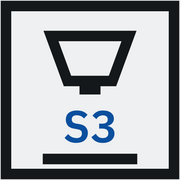
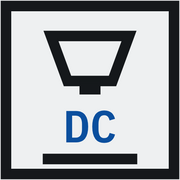
Renomme le service en DigitalCore
Stratis 3D est abandonné : la recherche a révélé Stratus3D et Strati-3D,
deux sociétés françaises d'impression 3D à une lettre près, en plus de
Strateo3D et de Stratasys. La racine « strat- » décrit la couche, comme
« layer » : elle est naturellement encombrée, et s'y installer aurait
reproduit le litige qu'on vient de clore, avec cette fois plusieurs
antériorités en face.

DigitalCore est le nom commercial déjà déclaré au RNE, rattaché au même
SIREN. Aucun signe nouveau n'est adopté, l'antériorité est celle de
l'entreprise elle-même, et le nom ne décrit pas le procédé — donc ne se
dispute pas. L'activité est portée par le sous-titre.

Le monogramme passe à DC ; le dessin de la marque est inchangé. Icônes,
favicon, logotype et image Open Graph régénérés.

Claude-Session: https://claude.ai/code/session_015CMd9wULHgvptp7V71x8TH

Changed region(s): [[0.3611, 0.6111, 0.6389, 0.8056]]

diff --git a/lib/site.ts b/lib/site.ts
@@ -3,11 +3,11 @@
  * zone desservie. Repris dans le footer, les emails, le SEO et le JSON-LD.
  */
 export const site = {
-  nom: "Stratis 3D",
+  nom: "DigitalCore",
   baseline: "Impression 3D sur mesure, partout en France",
   description:
     "Service d'impression 3D en ligne : devis immédiat, conseil technique, conception et impression de pièces sur mesure en PLA, PETG, ASA et TPU. Livraison partout en France.",
-  email: "devis@stratis3d.fr",
+  email: "devis@digitalcore.fr",
   telephone: "+33 7 82 49 87 35",
   adresse: {
     rue: "235 chemin de Bezaton",

diff --git a/components/Header.tsx b/components/Header.tsx
@@ -33,7 +33,7 @@ export function Header() {
               fill="#0b4f9e"
               textAnchor="middle"
             >
-              S3
+              DC
             </text>
             <path d="M32 106h56" stroke="#15181b" strokeWidth="7" strokeLinecap="square" />
           </svg>
